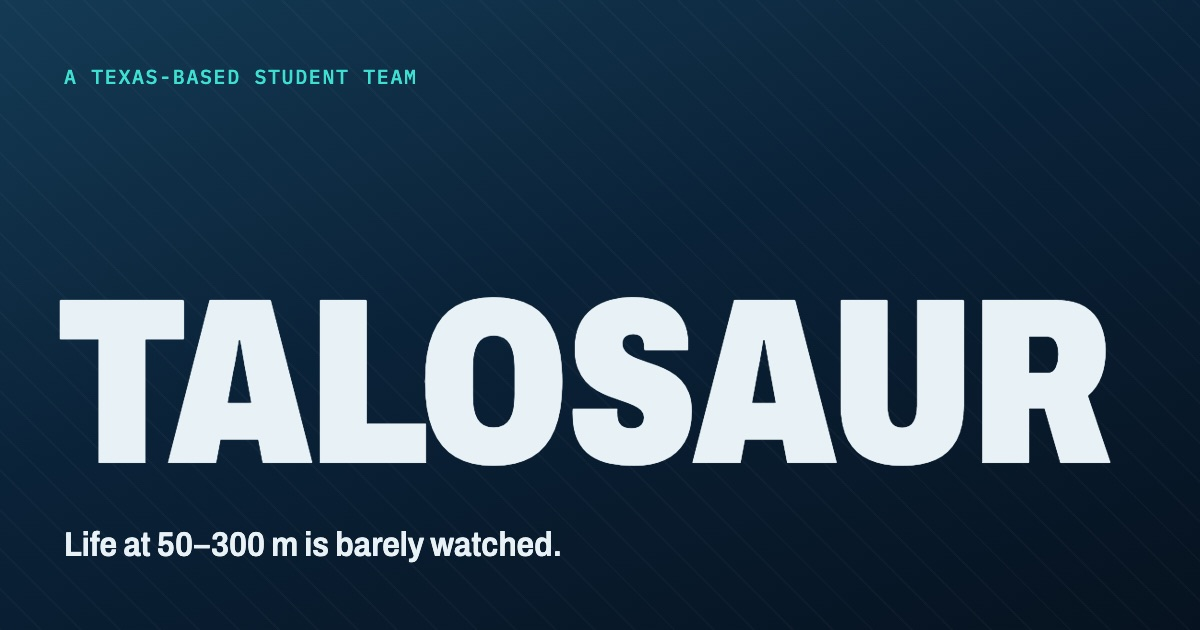
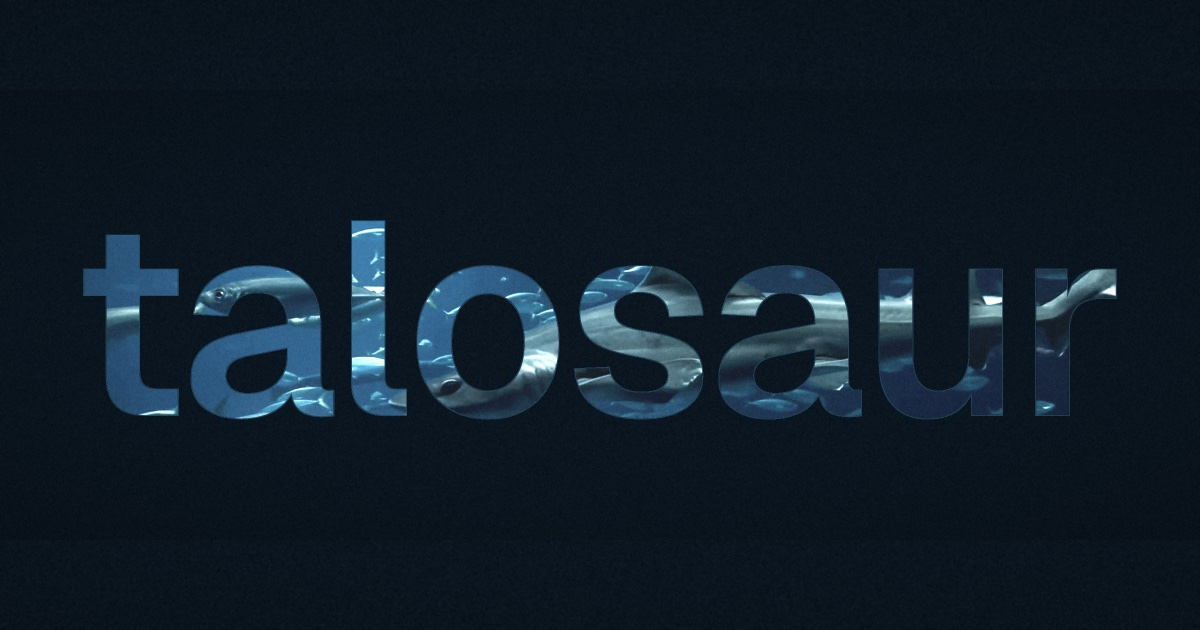
Final pass: no photo placeholders, real headings, drop Embedded Software role
Cards and team members without a photo are solid text panels. Featured
content heading, Privacy and Image credits have real text. Share preview
uses the team wordmark. Only bracket items from the Content doc remain.

Claude-Session: https://claude.ai/code/session_014BRhtAPQ1VCLdeh2Gi7eS4

diff --git a/src/data/home.ts b/src/data/home.ts
@@ -1,5 +1,6 @@
 // Cards and buttons on the Home page (copy from the Content doc).
-// "photo" is a filename in public/images/. Add a photo with that exact name to replace the placeholder box.
+// "photo" is a filename in public/images/. A card only shows a photo when that file exists;
+// otherwise it's a solid text panel. Add the file and the photo appears on the next build.
 // A link in [brackets] is a placeholder: the card shows but isn't clickable yet.
 
 // Three cards under the hero
@@ -28,7 +29,7 @@ export const heroCards = [
 ];
 
 // Featured content
-export const featuredHeading = '[Featured content heading]'; // PLACEHOLDER: the Content doc doesn't give this heading
+export const featuredHeading = 'Featured content';
 export const featuredCards = [
   {
     title: 'Who we are',

diff --git a/src/data/team.ts b/src/data/team.ts
@@ -1,7 +1,8 @@
 // Team members on the Who we are page, in the order they appear.
 //
 // To add someone, copy one { ... } block and edit it.
-// photo:    filename in public/images/team/ (portrait, about 800 x 1000 px)
+// photo:    filename in public/images/team/ (portrait, about 800 x 1000 px). Until the file exists,
+//           the card shows a panel with the person's initials instead.
 // linkedin: full LinkedIn URL, or leave as '' to hide the link
 
 export const teamIntro =

diff --git a/src/data/positions.ts b/src/data/positions.ts
@@ -12,11 +12,6 @@ export const applicationFormUrl =
 
 export const positions = [
   {
-    title: 'Embedded Software Engineer',
-    whatYoullDo: 'Write microcontroller code for motor control, sensors and safety systems',
-    skills: 'C/C++, Arduino or ESP32',
-  },
-  {
     title: 'Computer Vision / ML Engineer',
     whatYoullDo: 'Help the robot spot and track marine animals in video',
     skills: 'Python, PyTorch, OpenCV',

diff --git a/src/lib/images.ts b/src/lib/images.ts
@@ -1,0 +1,6 @@
+// Checks whether a photo exists in public/images/ when the site is built.
+// Cards and team members only show a photo when the file is actually there.
+import { existsSync } from 'node:fs';
+import { join } from 'node:path';
+
+export const imageExists = (file: string) => existsSync(join(process.cwd(), 'public', 'images', file));

diff --git a/PLACEHOLDERS.md b/PLACEHOLDERS.md
@@ -1,29 +1,19 @@
 # Placeholders
 
-Everything on the site that still needs real content, and the file where you fill it in.
+Everything the Content doc leaves in [brackets], and the file where you fill it in. Photos and video are not
+listed here: the site uses the team's media and simply shows a photo wherever a file is added (see README).
 
 | Placeholder | Where it shows | File to edit |
 |---|---|---|
-| Instagram link | Footer, "Connect with us" | `src/data/site.ts` (`socialLinks`) |
-| LinkedIn link | Footer, "Connect with us" | `src/data/site.ts` (`socialLinks`) |
-| YouTube link | Footer, "Connect with us" | `src/data/site.ts` (`socialLinks`) |
-| Logo (text "TALOSAUR" for now) | Header, big footer wordmark, Home hero | `src/components/Header.astro`, `src/components/Footer.astro`, `src/components/HeroVideo.astro` |
-| Favicon (simple cyan "T" for now) | Browser tab, phone home screen | `public/favicon.svg`, `public/favicon.png`, `public/apple-touch-icon.png` |
-| Site address (`https://talosaur.example`) | Social-share previews (links in chat apps and social media) | `astro.config.mjs` (`site`) |
-| Social-share image (wordmark on blue for now; swap for a real photo if you like) | Previews when the site is shared | `public/images/og-image.jpg` (1200 × 630) |
-| `[List each photo or video on the site and who took it.]` | Image credits page | `src/pages/image-credits.astro` |
-| `[Privacy policy: ...]` | Privacy page | `src/pages/privacy.astro` |
-| `[Live stream link]` | Home, "Talosaur Live" card (not clickable until filled in) | `src/data/home.ts` |
-| `[Featured content heading]` (not given in the Content doc) | Home, Section 03 | `src/data/home.ts` (`featuredHeading`) |
-| 6 Home card photos still missing: `home-edna.jpg`, `home-live.jpg`, `home-team.jpg`, `home-positions.jpg`, `home-meet-the-team.jpg`, `home-get-in-touch.jpg` | Home, Sections 02, 03 and 06 | Add each file to `public/images/` with that exact name |
-| News photos (none yet; each entry can have one) | News page | Add `image: name.jpg` to the entry and put the photo in `public/images/news/` |
-| "Project kicks off" news entry: `[Date]` and `[One line on how Talosaur started.]` | News page and Home "Latest news" | `src/content/news/project-kicks-off.md` |
-| `[Add a source for these numbers.]` (cost figures) | The Problem, under the big numbers | `src/data/problem.ts` (`statsSource`) |
-| Team: `[Name]` (3 people) and `[Major, year]` (all 4) | Who we are | `src/data/team.ts` |
-| Team LinkedIn links (optional, hidden until filled in) | Who we are | `src/data/team.ts` (`linkedin`) |
-| 4 team photos: `fernando-guzman.jpg`, `ocean-engineer.jpg`, `electrical-engineer.jpg`, `cad-lead.jpg` | Who we are | Add to `public/images/team/` (rename to match a person's name if you also change `photo` in `team.ts`) |
-| `[X]` hours a week | Positions intro | `src/data/positions.ts` (`positionsIntro`) |
+| `[team email]` | Footer, Work with us page, Privacy page | `src/data/site.ts` (`teamEmail`) |
 | `[finance email or form]` | Donate, "Contact our finance team" button (greyed out until filled in) | `src/data/site.ts` (`financeContact`) |
-| `[team email]` | Work with us page (also the footer) | `src/data/site.ts` (`teamEmail`) |
-| Hero video is 1280 × 720, 51 s, 13 MB. Works, but a shorter, smaller file (see README) would load faster on phones | Home hero | `public/videos/hero.mp4` |
-| Image credits for the hero video footage and the three Home photos | Image credits page | `src/pages/image-credits.astro` |
+| Instagram, LinkedIn, YouTube links | Footer, "Connect with us" (plain text until filled in) | `src/data/site.ts` (`socialLinks`) |
+| `[Live stream link]` | Home, "Talosaur Live" card (not clickable until filled in) | `src/data/home.ts` |
+| `[Name]` (3 people) and `[Major, year]` (all 4) | Who we are | `src/data/team.ts` |
+| Team LinkedIn links (optional, hidden until filled in) | Who we are | `src/data/team.ts` (`linkedin`) |
+| `[X]` hours a week | Positions intro | `src/data/positions.ts` (`positionsIntro`) |
+| `[Add a source for these numbers.]` (cost figures) | The Problem, under the big numbers | `src/data/problem.ts` (`statsSource`) |
+| `[Date]` and `[One line on how Talosaur started.]` | "Project kicks off" news entry | `src/content/news/project-kicks-off.md` |
+| `[Credits for any third-party footage or photos...]` | Image credits page | `src/pages/image-credits.astro` |
+| Site address (`https://talosaur.example`) | Social-share previews only; set it after deploying | `astro.config.mjs` (`site`) |
+| Logo: text "TALOSAUR" and a simple "T" favicon | Header, footer, hero, browser tab | `src/components/Header.astro`, `Footer.astro`, `HeroVideo.astro`, `public/favicon.*` |

diff --git a/README.md b/README.md
@@ -55,9 +55,15 @@ Open `src/data/team.ts`. Each person is one `{ ... }` block with their name, rol
 
 Open `src/data/positions.ts`. Each role is one `{ ... }` block with a title, "What you'd do" and "Helpful skills". Copy a block to add a role, delete it to close one. The **Apply now** button at the top of the page opens the Google Form saved in `applicationFormUrl`; change that line if the form ever moves. If you add or rename a role, also update the "Position applying for" dropdown in the Google Form so they match.
 
-## Swap a photo
+## Add or swap a photo
 
-Every photo spot shows a striped placeholder box with a label like `public/images/home-turtle.jpg`. To fill it, save your photo in `public/images/` with **exactly that filename** (JPG, about 1600 px wide, under 500 KB). It replaces the box the next time the site builds. To replace a photo that's already there, overwrite the file and keep the same name.
+Cards and team members show a photo only when the file exists; otherwise they're solid text panels. To add one, save a JPG (about 1600 px wide, under 500 KB) in `public/images/` with the filename written in the data file:
+
+- Home cards: the `photo` name in `src/data/home.ts` (for example `home-edna.jpg`, `home-live.jpg`, `home-team.jpg`, `home-positions.jpg`, `home-meet-the-team.jpg`, `home-get-in-touch.jpg`)
+- Team members: the `photo` name in `src/data/team.ts`, saved in `public/images/team/`
+- News posts: add `image: name.jpg` to the post and save the file in `public/images/news/`
+
+To replace a photo, overwrite the file and keep the same name. Photos already in place: `home-turtle.jpg`, `home-build-log.jpg`, `home-twilight-zone.jpg`, the hero poster and the share-preview image (`og-image.jpg`).
 
 ## Add a news post
 
@@ -87,7 +93,7 @@ The full-screen video at the top of the Home page uses two files. Replace them a
 | `public/videos/hero.mp4` | The background video |
 | `public/images/hero-poster.jpg` | A still frame from the video. It shows while the video loads, and instead of the video for visitors who have "reduce motion" turned on in their phone or computer settings |
 
-Until `hero.mp4` exists, the site shows the still image with a small "Placeholder" tag. Once you add the file, the video appears the next time the site is built (automatically when you deploy, or restart `npm run dev` on your computer).
+The current video is 1280 × 720, 51 seconds and 13 MB. It works, but a shorter, smaller file (see below) loads faster on phones. If `hero.mp4` is ever removed, the site shows the still image instead.
 
 **Video file checklist**
 
